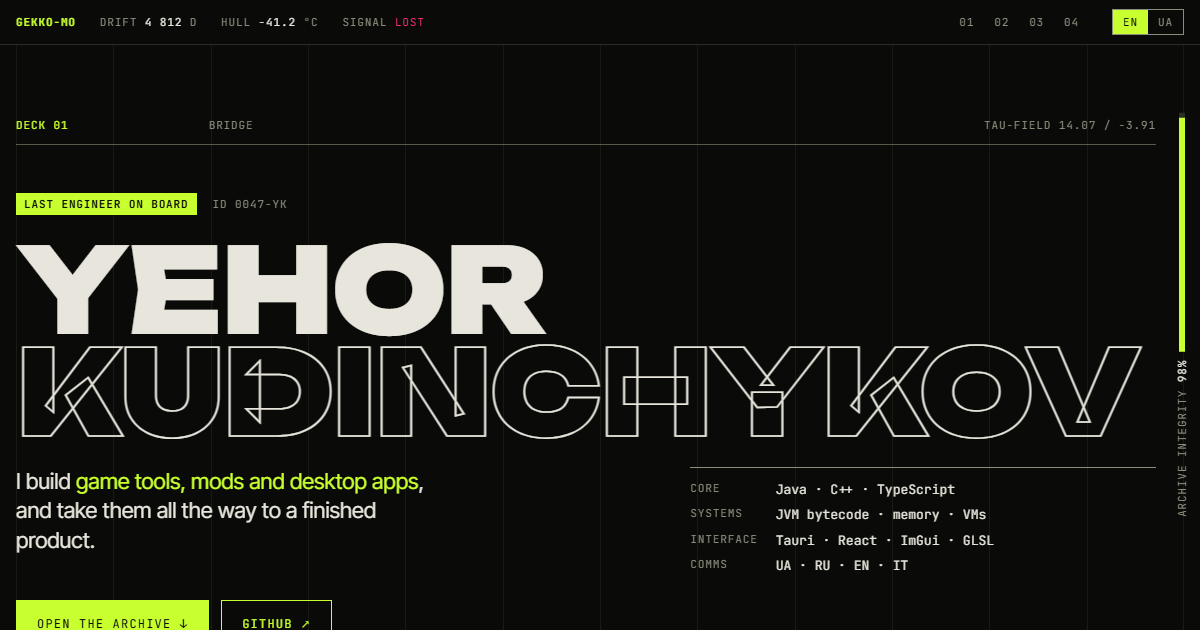
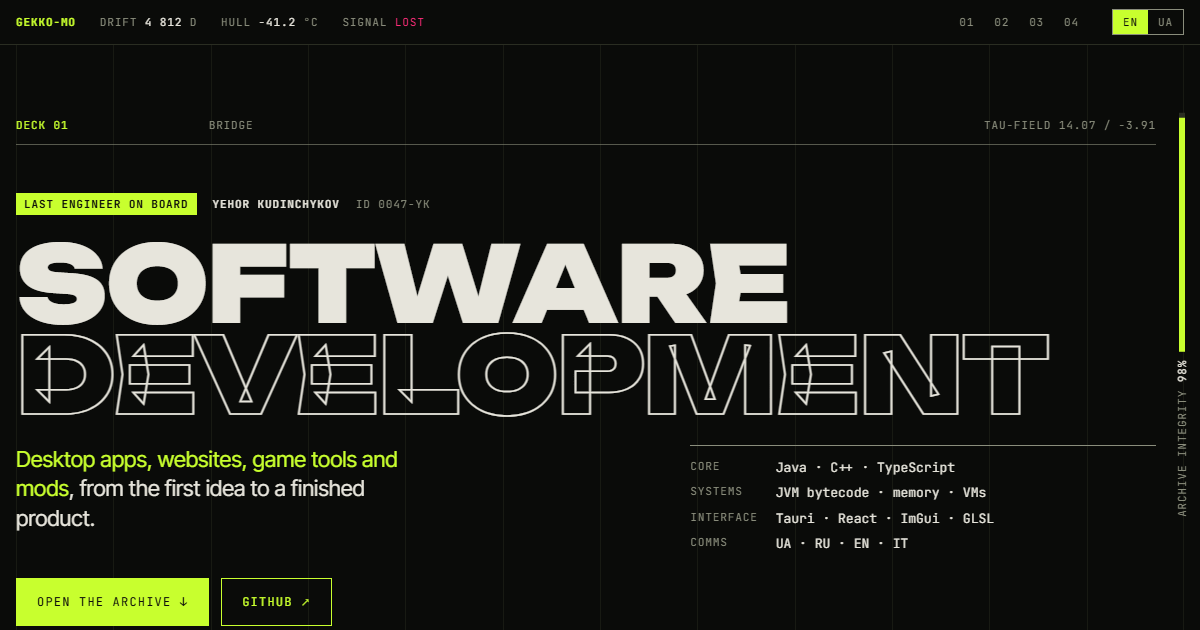
Lead with software development, name moves to the crew tag

diff --git a/src/content.ts b/src/content.ts
@@ -70,9 +70,10 @@ const en: Record<string, string> = {
   'deck.engineering': 'Engineering · system readouts',
   'deck.comms': 'Comms',
   'bridge.crew': 'Last engineer on board',
-  'bridge.first': 'Yehor',
-  'bridge.last': 'Kudinchykov',
-  'bridge.role': 'I build <em>game tools, mods and desktop apps</em>, and take them all the way to a finished product.',
+  'bridge.name': 'Yehor Kudinchykov',
+  'bridge.l1': 'Software',
+  'bridge.l2': 'development',
+  'bridge.role': '<em>Desktop apps, websites, game tools and mods</em>, from the first idea to a finished product.',
   'spec.core': 'Core',
   'spec.systems': 'Systems',
   'spec.interface': 'Interface',
@@ -139,9 +140,10 @@ const uk: Record<string, string> = {
   'deck.engineering': 'Інженерний відсік · показники систем',
   'deck.comms': 'Зв’язок',
   'bridge.crew': 'Останній інженер на борту',
-  'bridge.first': 'Єгор',
-  'bridge.last': 'Кудінчиков',
-  'bridge.role': 'Роблю <em>ігрові інструменти, моди й десктопні програми</em> і доводжу їх до готового продукту.',
+  'bridge.name': 'Єгор Кудінчиков',
+  'bridge.l1': 'Розробка',
+  'bridge.l2': 'програм',
+  'bridge.role': '<em>Десктопні програми, сайти, ігрові інструменти й моди</em> — від ідеї до готового продукту.',
   'spec.core': 'Основа',
   'spec.systems': 'Системи',
   'spec.interface': 'Інтерфейс',

diff --git a/tests/render.test.ts b/tests/render.test.ts
@@ -42,7 +42,7 @@ describe('archive', () => {
 describe('bridge', () => {
   it('has the name and a link to the archive', () => {
     renderBridge(el);
-    expect(el.querySelector('h1 [data-i18n="bridge.first"]')).not.toBeNull();
+    expect(el.querySelector('h1 [data-i18n="bridge.l1"]')).not.toBeNull();
     expect(el.querySelector('a[href="#deck-archive"]')).not.toBeNull();
   });
 });
@@ -70,10 +70,19 @@ describe('comms', () => {
 
 import { applyLang } from '../src/i18n';
 
-describe('bridge name', () => {
-  it('keeps a space between first and last name', () => {
+describe('bridge headline', () => {
+  it('leads with development and keeps the name in the crew tag', () => {
     renderBridge(el);
     applyLang(el, 'en');
-    expect(el.querySelector('h1')!.textContent).toBe('Yehor Kudinchykov');
+    expect(el.querySelector('h1')!.textContent).toBe('Software development');
+    expect(el.querySelector('.ship')!.textContent).toContain('Yehor Kudinchykov');
+    expect(el.querySelector('.role')!.textContent).toMatch(/desktop apps.*websites.*game tools.*mods/i);
+  });
+
+  it('reads the same way in Ukrainian', () => {
+    renderBridge(el);
+    applyLang(el, 'uk');
+    expect(el.querySelector('h1')!.textContent).toBe('Розробка програм');
+    expect(el.querySelector('.ship')!.textContent).toContain('Єгор Кудінчиков');
   });
 });

diff --git a/src/styles/layout.css b/src/styles/layout.css
@@ -51,10 +51,11 @@ main { position: relative; z-index: 1; padding-bottom: 64px; }
 }
 
 /* bridge */
-.bridge { display: grid; grid-template-columns: repeat(12, 1fr); gap: 24px 16px; padding-block: 24px 40px; }
+.bridge { container-type: inline-size; display: grid; grid-template-columns: repeat(12, 1fr); gap: 24px 16px; padding-block: 24px 40px; }
 .bridge .ship { grid-column: 1 / -1; display: flex; gap: 16px; align-items: center; flex-wrap: wrap; color: var(--mist); }
 .bridge .ship .tag { background: var(--acid); color: var(--ink); padding: 3px 8px; font-weight: 600; }
-h1 { grid-column: 1 / -1; margin: 0; font-family: var(--f-display); font-weight: 900; text-transform: uppercase; line-height: .86; letter-spacing: -.02em; font-size: clamp(28px, calc((min(100vw, 1320px) - 40px) / 9.8), 134px); }
+.bridge .ship .who { color: var(--paper); font-weight: 600; }
+h1 { grid-column: 1 / -1; margin: 0; font-family: var(--f-display); font-weight: 900; text-transform: uppercase; line-height: .86; letter-spacing: -.02em; font-size: clamp(26px, calc(100cqi / 10.8), 134px); }
 h1 .l2 { display: block; color: transparent; -webkit-text-stroke: 1.5px var(--paper); }
 .role { grid-column: 1 / 7; font-size: clamp(18px, 2vw, 22px); line-height: 1.35; max-width: 34ch; margin: 0; }
 .role em { font-style: normal; color: var(--acid); }

diff --git a/src/render.ts b/src/render.ts
@@ -14,8 +14,8 @@ function deckHead(no: string, key: string, right: string): string {
 export function renderBridge(el: HTMLElement): void {
   el.innerHTML = `${deckHead('01', 'deck.bridge', 'TAU-FIELD 14.07 / −3.91')}
   <div class="bridge">
-    <div class="ship mono">${tr('bridge.crew', 'span', 'tag')}<span>ID 0047-YK</span></div>
-    <h1 class="jolt">${tr('bridge.first')} <span class="l2" data-i18n="bridge.last"></span></h1>
+    <div class="ship mono">${tr('bridge.crew', 'span', 'tag')}${tr('bridge.name', 'span', 'who')}<span>ID 0047-YK</span></div>
+    <h1 class="jolt">${tr('bridge.l1')} <span class="l2" data-i18n="bridge.l2"></span></h1>
     <p class="role" data-i18n-html="bridge.role"></p>
     <dl class="spec mono">
       ${tr('spec.core', 'dt')}<dd>Java · C++ · TypeScript</dd>
